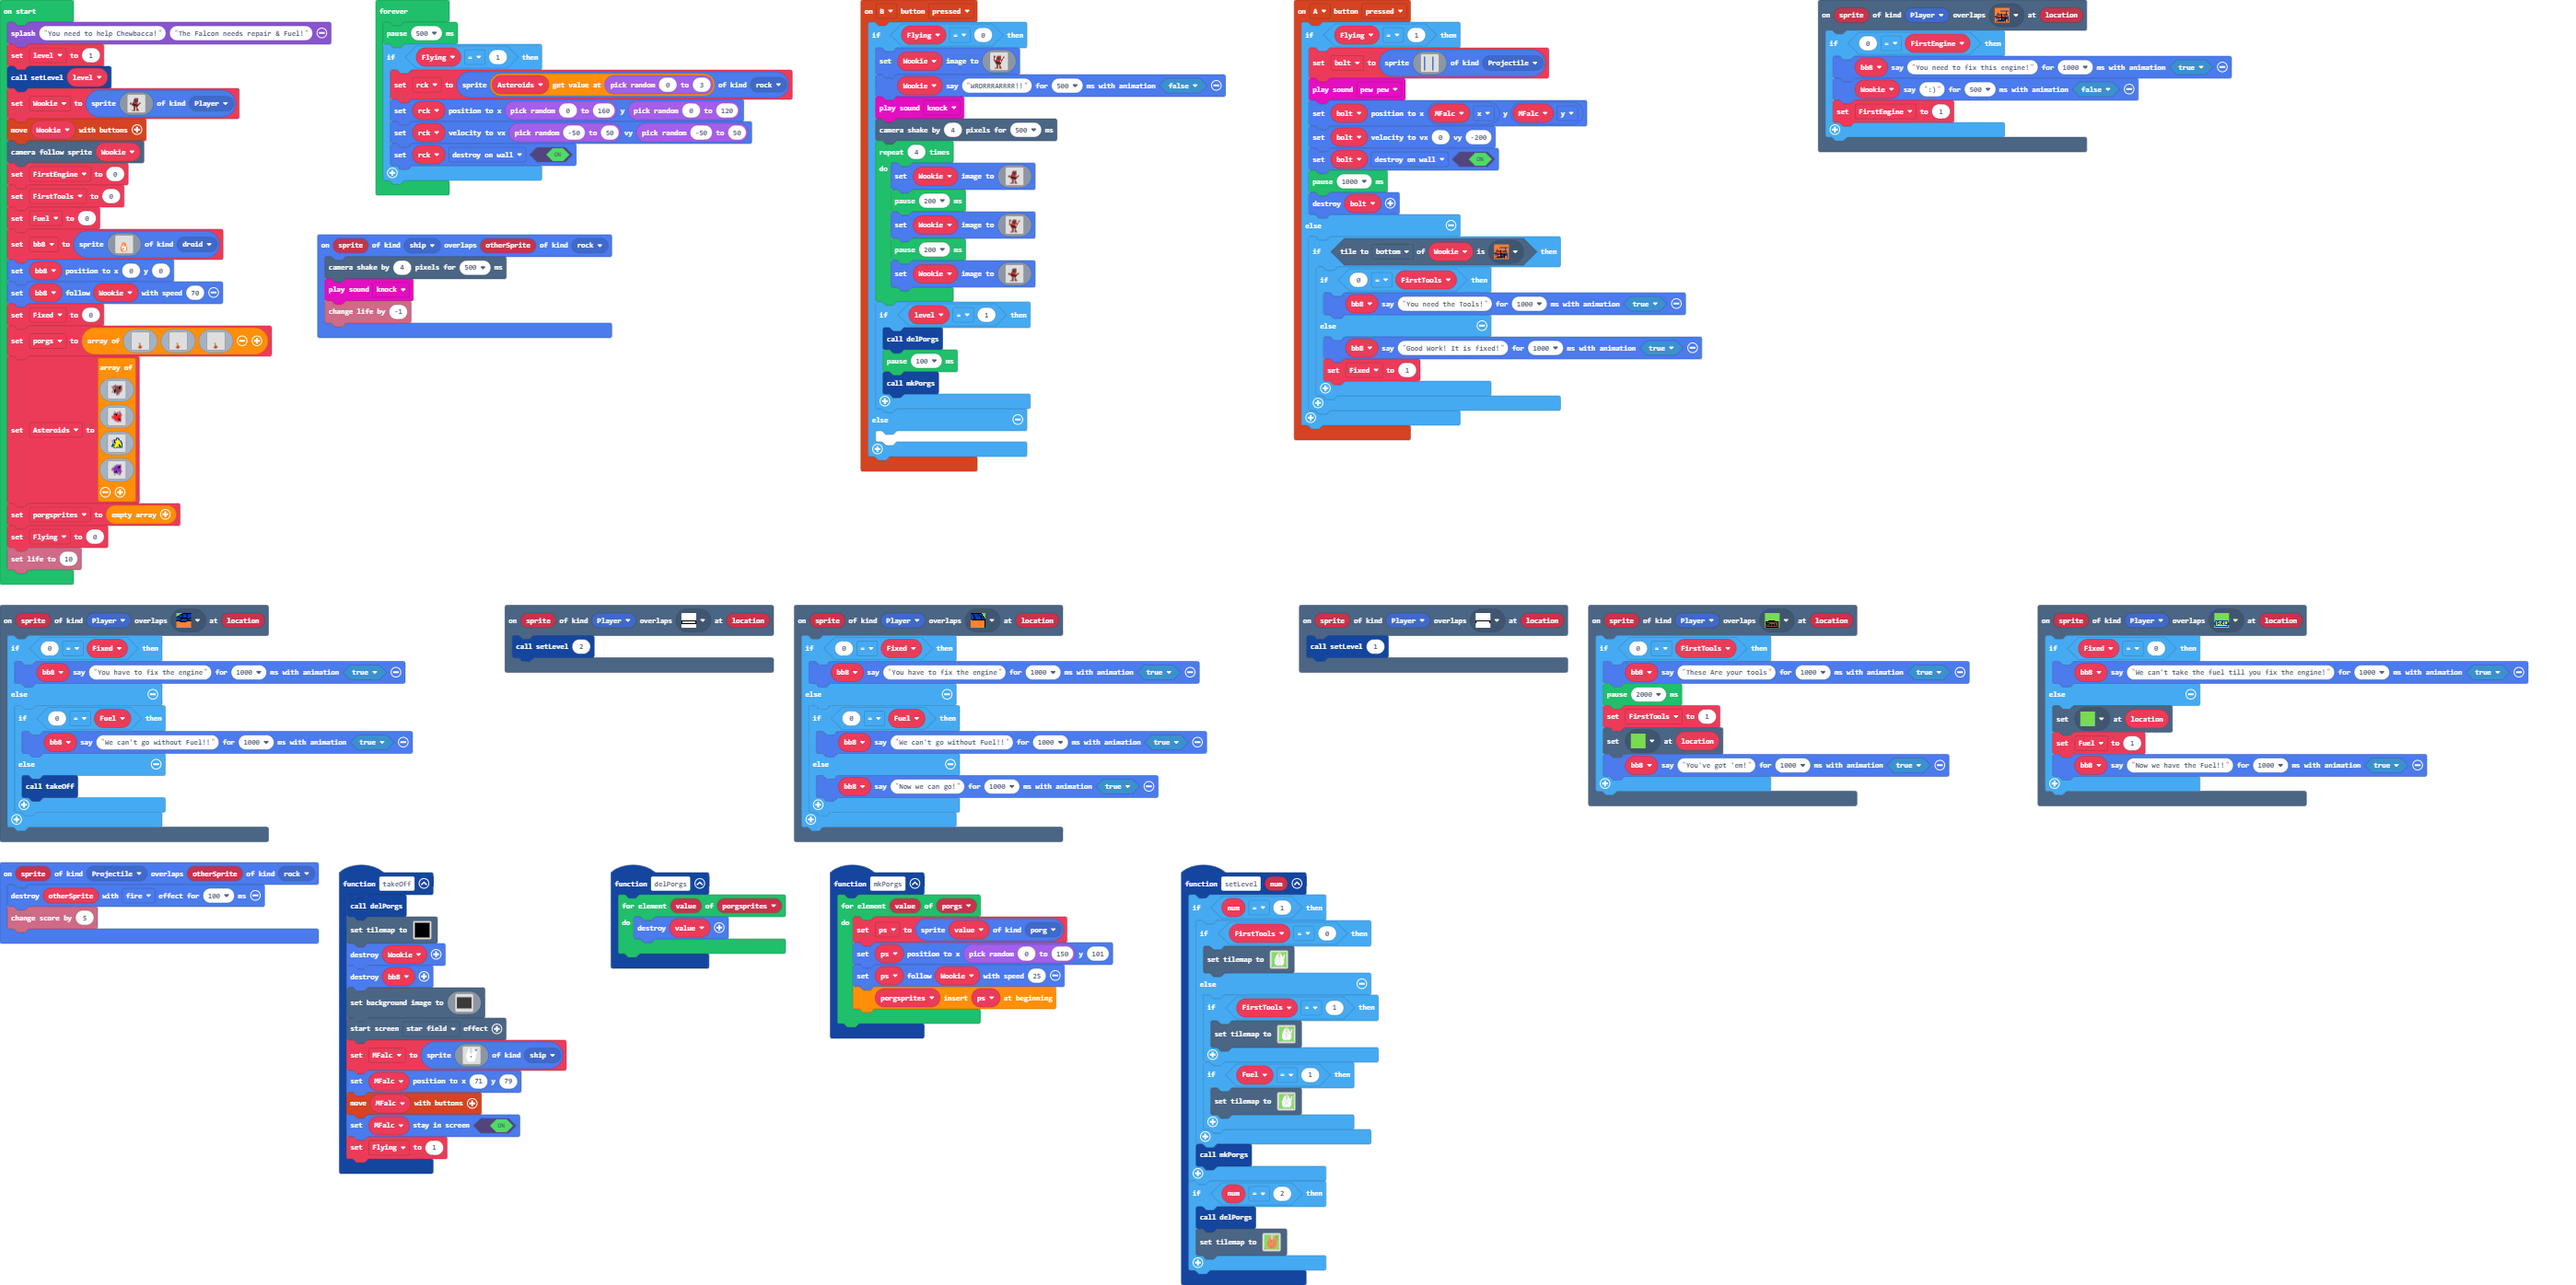
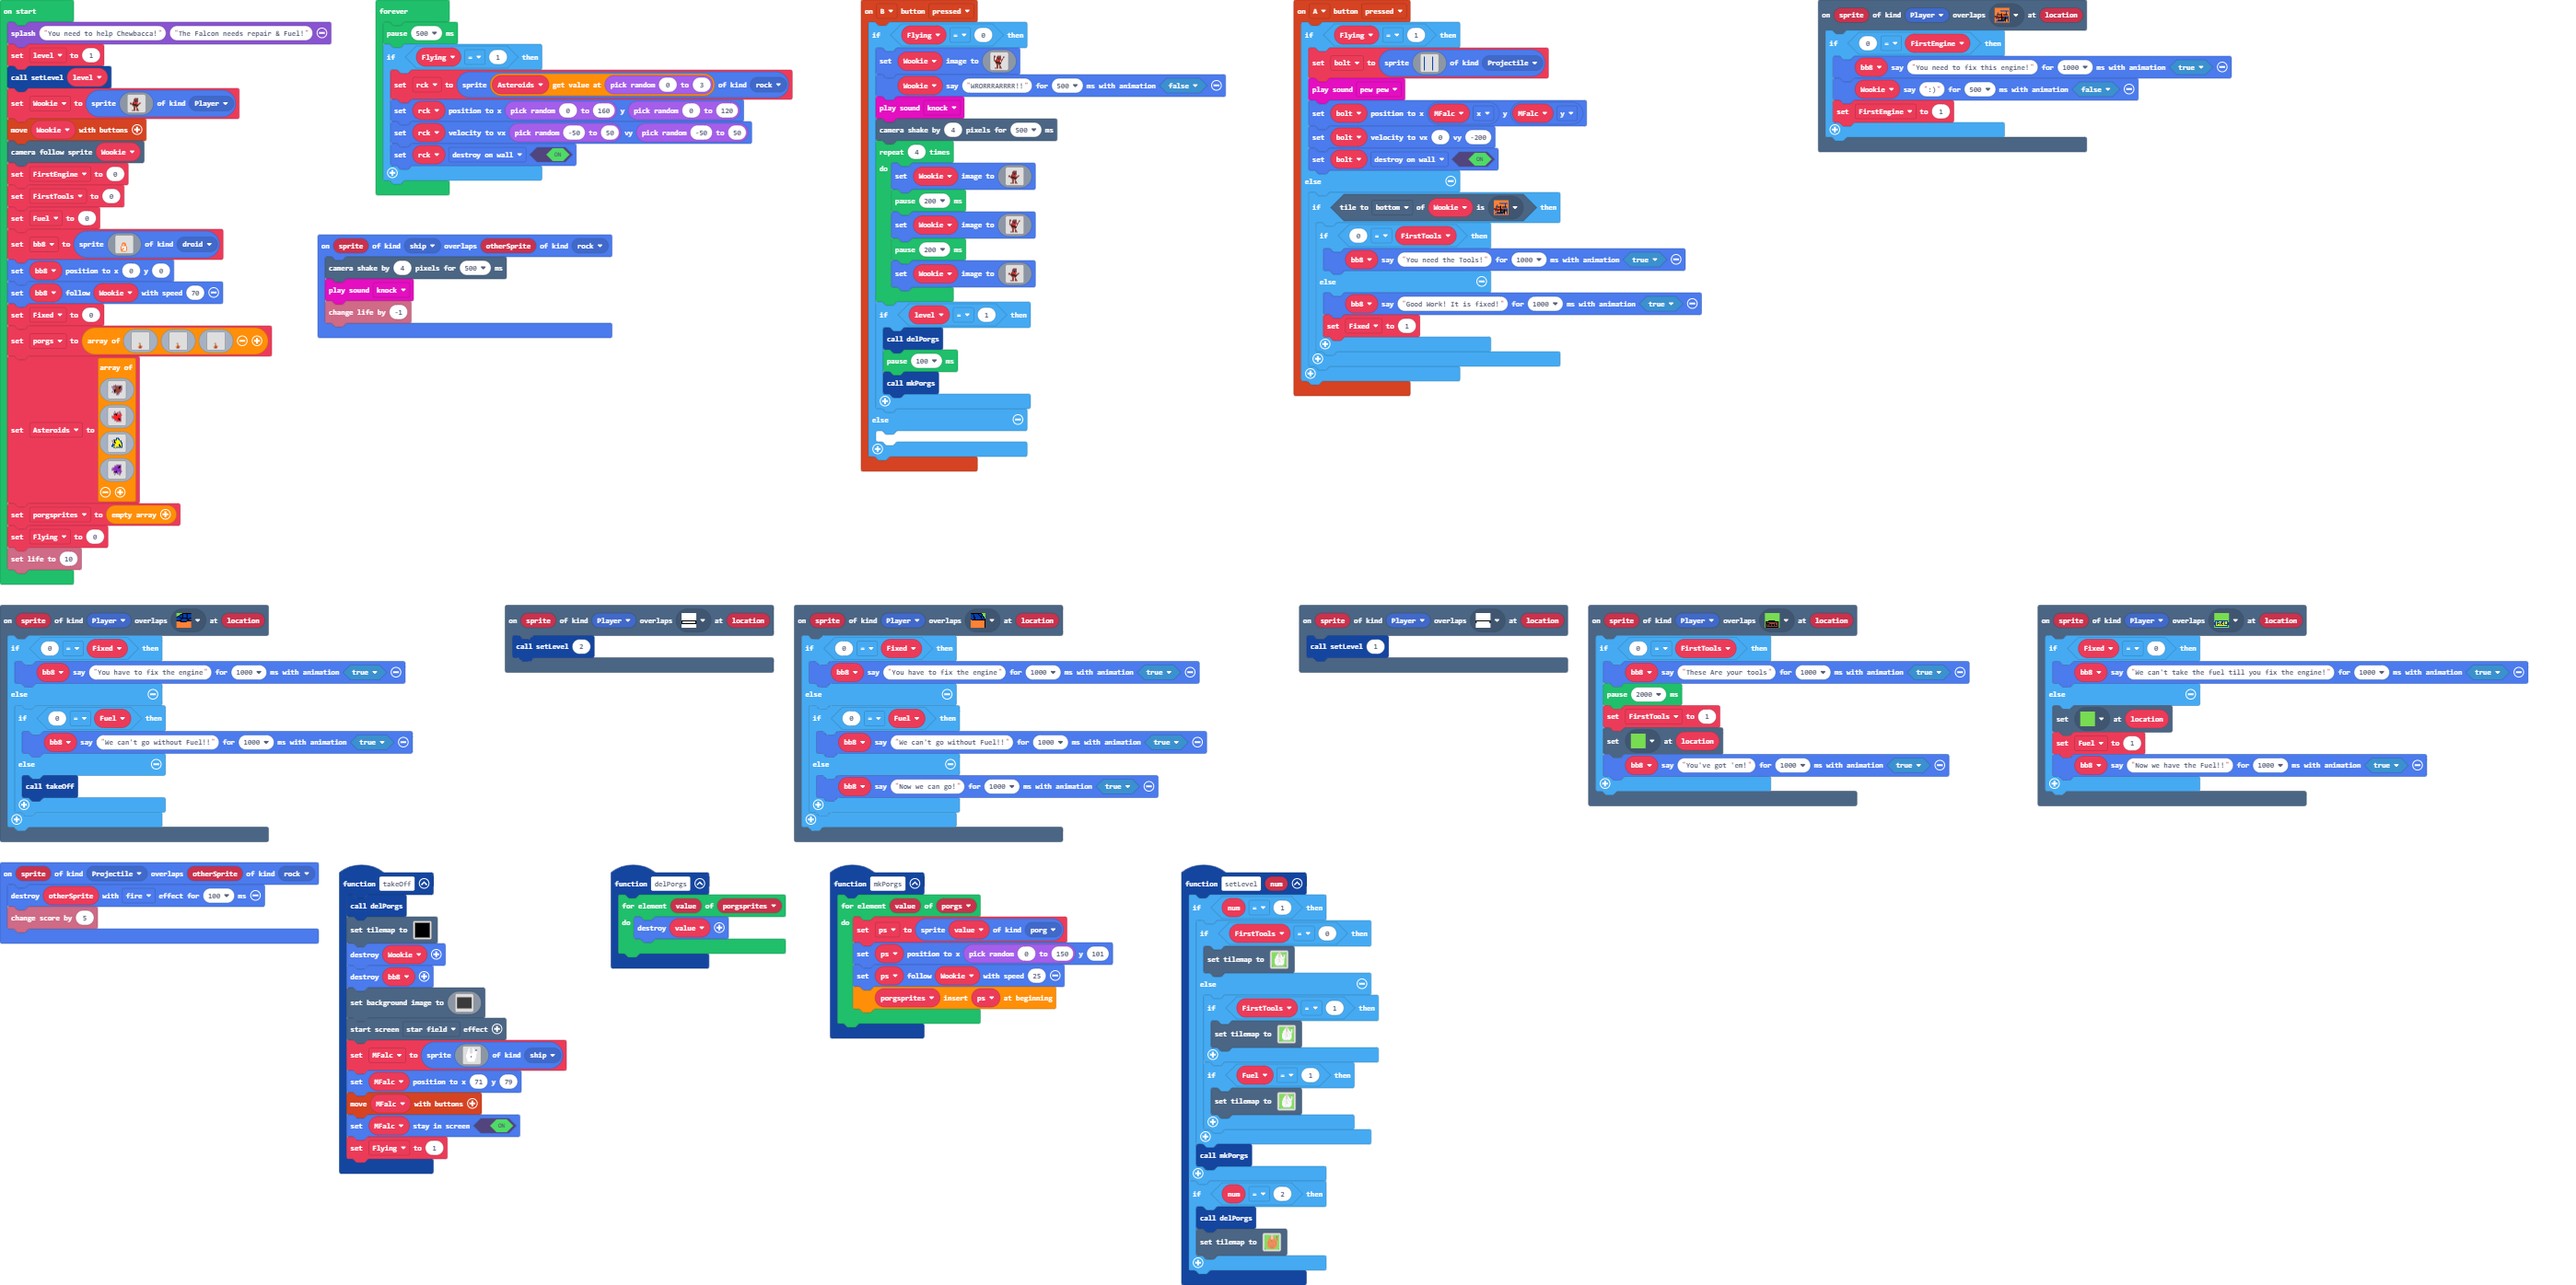
Update main.blocks, main.ts

diff --git a/main.ts b/main.ts
@@ -86,8 +86,6 @@ controller.A.onEvent(ControllerButtonEvent.Pressed, function () {
         bolt.setPosition(MFalc.x, MFalc.y)
         bolt.setVelocity(0, -200)
         bolt.setFlag(SpriteFlag.DestroyOnWall, true)
-        pause(1000)
-        bolt.destroy()
     } else {
         if (Wookie.tileKindAt(TileDirection.Bottom, assets.tile`engine`)) {
             if (0 == FirstTools) {
